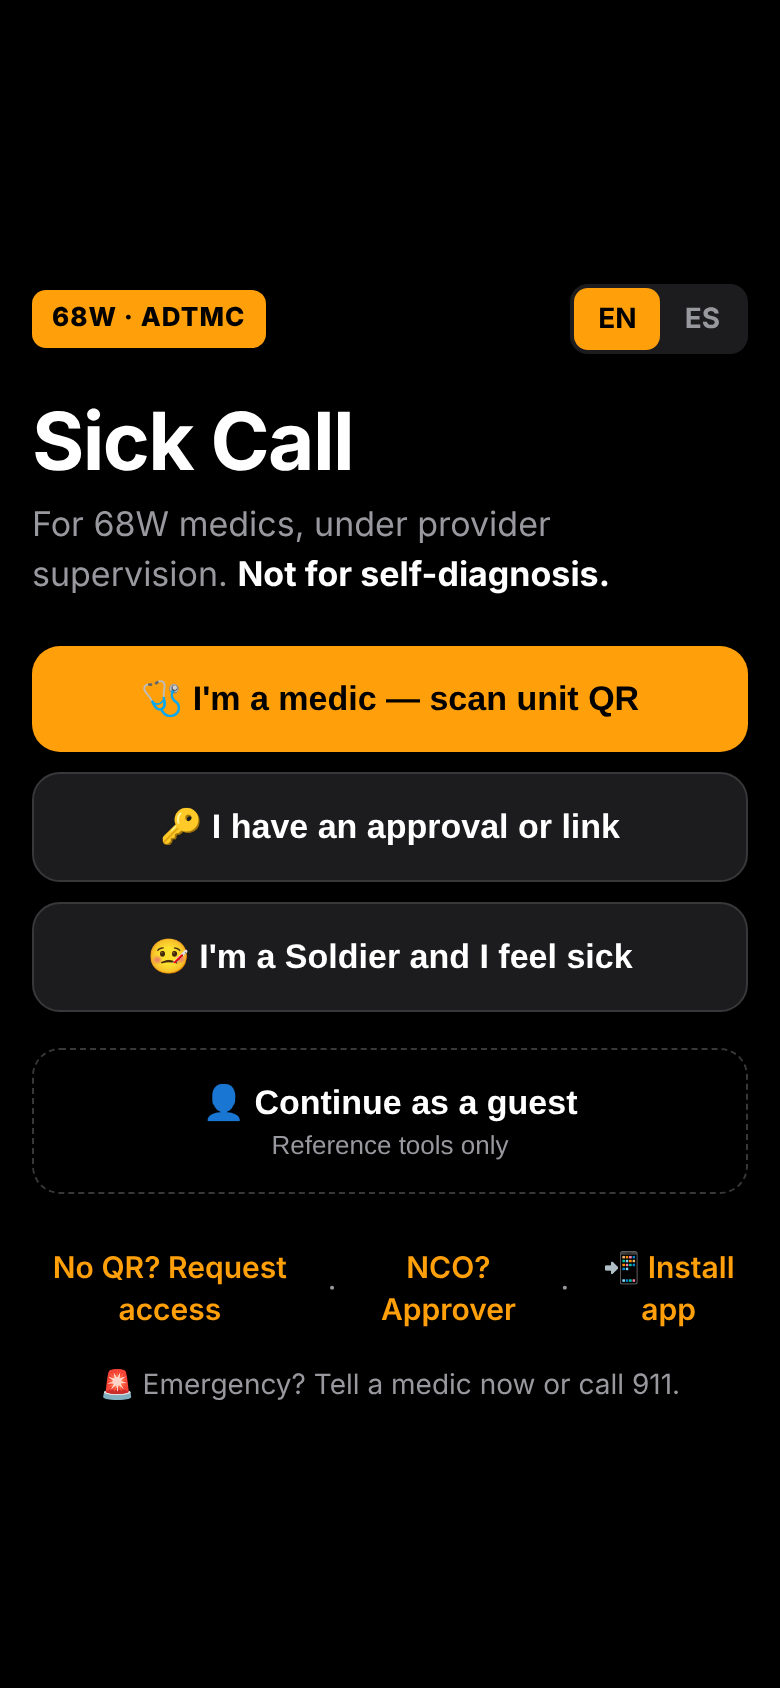
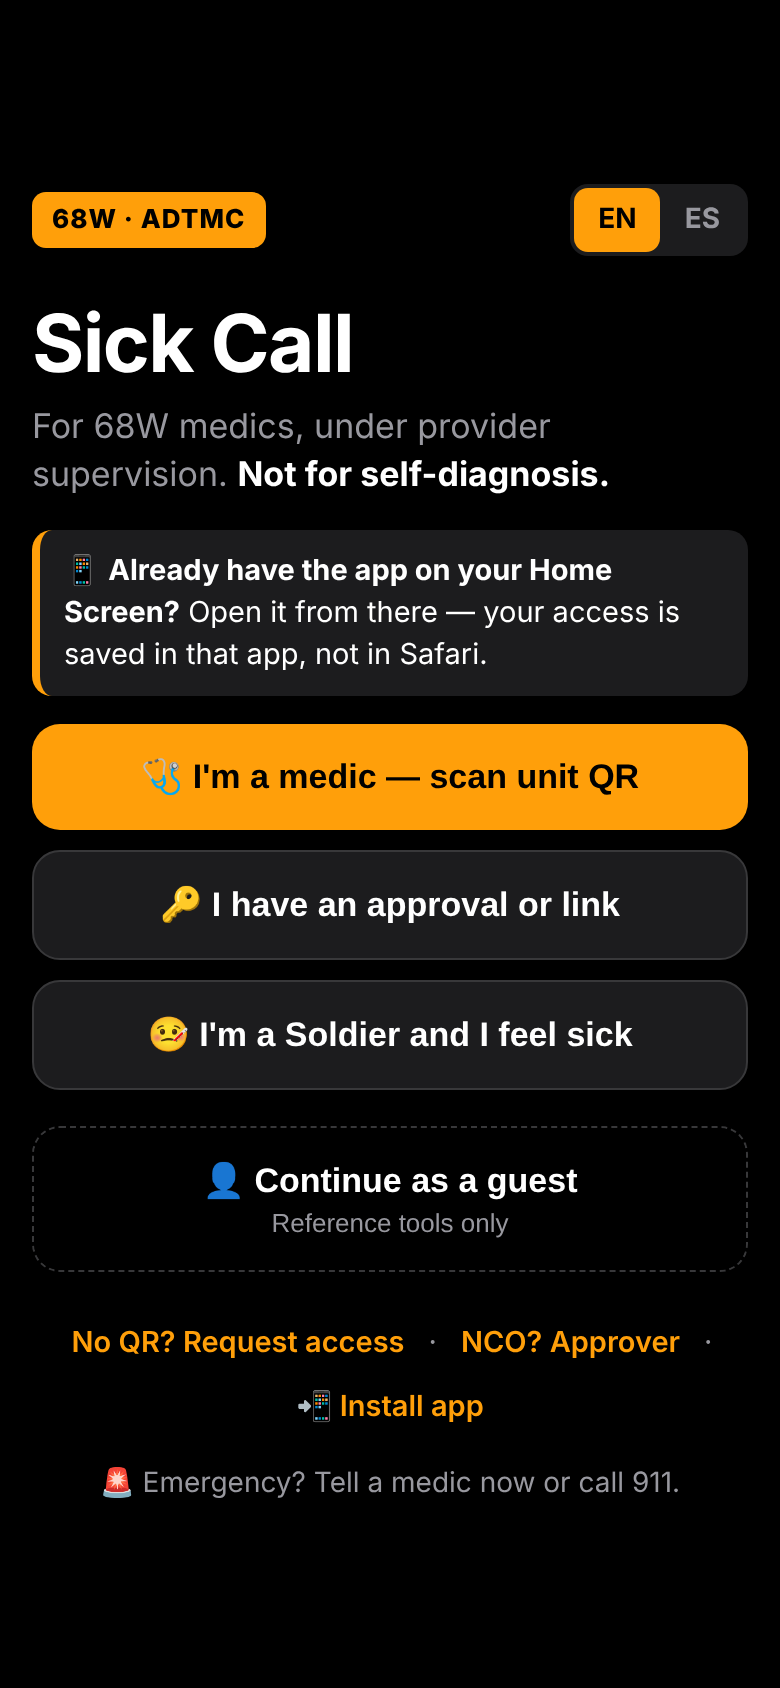
Personal access link: restore access in any browser or phone (v34)
Link personal de acceso: recuperar el acceso en cualquier navegador o teléfono (v34)

Claude-Session: https://claude.ai/code/session_015dVcNB5Wifchtix1QkjYVg

diff --git a/access.js b/access.js
@@ -33,8 +33,9 @@ const AC={
     const ap=AC.get('sc_appr');if(ap&&ap.cert&&ap.prv){const c=await AC.verifyCert(ap.cert);if(c&&c.pub===ap.pub)return{r:'appr',u:c.u,cert:ap.cert,prv:ap.prv,id:c.id};}
     if(AC.revoked(AC.dev())){AC.set('sc_auth',null);return null;}
     const a=AC.get('sc_auth');
+    if(a&&a.pid&&AC.revoked(a.pid)){AC.set('sc_auth',null);return null;}
     if(a&&a.inv){const v=await AC.verifyInvite(a.inv);if(v&&a.d===AC.dev())return{r:'medic',u:(a.reg&&a.reg.unit)||v.u,by:v._by,iat:Math.round((a.at||0)/1000),reg:a.reg||null,via:'inv'};AC.set('sc_auth',null);return null;}
-    if(a&&a.tok){const v=await AC.verifyApproval(a.tok);if(v&&v.d===AC.dev())return{r:'medic',u:v.u,by:v._by,iat:v.iat};AC.set('sc_auth',null);}
+    if(a&&a.tok){const v=await AC.verifyApproval(a.tok);if(v&&(v.d===AC.dev()||(a.pass&&a.d===AC.dev())))return{r:'medic',u:v.u,by:v._by,iat:v.iat};AC.set('sc_auth',null);}
     return null;}
 };
 let acRole=null;
@@ -105,13 +106,14 @@ function acHaveView(){
    +'<textarea id="acP" class="ac-in" rows="3" placeholder="'+L('Paste link here','Pega el link aquí')+'"></textarea>'
    +'<button class="mg-btn sec" onclick="acHandle(document.getElementById(\'acP\').value)">'+L('Activate','Activar')+'</button><div id="acMsg" class="ac-msg"></div>');
 }
-function acScan(){iqScan(t=>{if(/#(acc|areq|acert|ainv)=/.test(t)){acHandle(t);return true;}return false;});}
+function acScan(){iqScan(t=>{if(/#(acc|areq|acert|ainv|apass)=/.test(t)){acHandle(t);return true;}return false;});}
 function acMsg(t,bad){const m=document.getElementById('acMsg');if(m){m.textContent=t;m.className='ac-msg'+(bad?' bad':'');}else iqToast(t);}
 /* ---------- handle any access link/text ---------- */
 async function acHandle(text){
-  text=String(text||'').trim();const m=text.match(/#?(acc|areq|acert|aroot|ainv)=([A-Za-z0-9_.-]+)/);
+  text=String(text||'').trim();const m=text.match(/#?(acc|areq|acert|aroot|ainv|apass)=([A-Za-z0-9_.-]+)/);
   if(!m){acMsg(L('That is not a Sick Call access code.','Eso no es un código de acceso de Sick Call.'),true);return;}
   const k=m[1],v=m[2];
+  if(k==='apass'){const ok=await acPassUse(v);if(!ok)acOv('<h2>'+L('Link not valid','Link no válido')+'</h2><p>'+L('This personal link is invalid or was revoked. Scan your unit QR again.','Este link personal no es válido o fue revocado. Escanea otra vez el QR de tu unidad.')+'</p><button class="mg-btn" onclick="accGate(true)">'+L('Back','Atrás')+'</button>');return;}
   if(k==='ainv'){const iv=await AC.verifyInvite(v);
     if(!iv){acMsg(L('Invalid or revoked unit QR.','QR de unidad inválido o revocado.'),true);acOv('<h2>'+L('QR not valid','QR no válido')+'</h2><p>'+L('This unit QR is invalid or was revoked. Ask your NCO for a new one.','Este QR de unidad no es válido o fue revocado. Pídele uno nuevo a tu NCO.')+'</p><button class="mg-btn" onclick="accGate(true)">'+L('Back','Atrás')+'</button>');return;}
     if(iv.exp&&Date.now()/1000>iv.exp){acOv('<h2>'+L('QR expired','QR vencido')+'</h2><p>'+L('This unit QR expired. Ask your NCO for a new one.','Este QR de unidad ya venció. Pídele uno nuevo a tu NCO.')+'</p><button class="mg-btn" onclick="accGate(true)">'+L('Back','Atrás')+'</button>');return;}
@@ -161,12 +163,13 @@ function renderAccess(){
     if(log.length)h+='<div class="field"><div class="lab"><span class="tag">📋</span><span class="name">'+L('My approvals','Mis aprobaciones')+'</span></div>'+log.slice(0,50).map(e=>'<div class="ac-log"><b>'+acEsc(e.n||'—')+'</b> · '+acEsc(e.u)+' · '+(e.r==='appr'?L('approver','aprobador'):e.r==='inv'?L('unit QR','QR de unidad'):L('medic','médico'))+'<span>'+new Date(e.at).toLocaleDateString()+' · ID '+e.id+'</span></div>').join('')+'</div>';
   }
   if(!r)h+='<div class="algo-actions"><button onclick="accGate(true)">'+L('Request access','Pedir acceso')+'</button><button class="ghost" onclick="acReqView(\'appr\')">'+L('Become an approver','Ser aprobador')+'</button></div>';
+  if(r&&r.r==='medic')h+='<div class="algo-actions"><button onclick="acPassView()">🔗 '+L('My personal access link','Mi link personal de acceso')+'</button></div>';
   if(r&&r.r==='medic')h+='<div class="algo-actions"><button class="ghost" onclick="acReqView(\'appr\')">'+L('I\'m a medic NCO — become an approver','Soy NCO de médicos — ser aprobador')+'</button></div>';
   h+='<div class="algo-actions"><button class="ghost" onclick="acHaveView()">🔑 '+L('Paste approval / certificate / admin key','Pegar aprobación / certificado / llave admin')+'</button></div>';
-  h+='<p class="note-hint foot">'+L('Approvals are signed and only work on the phone that asked for them. To revoke someone, give the app owner the approval ID.','Las aprobaciones están firmadas y solo funcionan en el teléfono que las pidió. Para revocar a alguien, dale al dueño de la app el ID de la aprobación.')+'</p>';
+  h+='<p class="note-hint foot">'+L('Approvals are signed. To use the app in another browser or phone, use your personal access link. To revoke someone, give the app owner the approval ID.','Las aprobaciones están firmadas. Para usar la app en otro navegador o teléfono, usa tu link personal de acceso. Para revocar a alguien, dale al dueño de la app el ID de la aprobación.')+'</p>';
   return h;
 }
-function acHashCheck(){const h=location.hash||'';if(!/(acc|areq|acert|aroot|ainv)=/.test(h))return false;try{history.replaceState(null,'',location.pathname+location.search);}catch(e){}acHandle(h);return true;}
+function acHashCheck(){const h=location.hash||'';if(!/(acc|areq|acert|aroot|ainv|apass)=/.test(h))return false;try{history.replaceState(null,'',location.pathname+location.search);}catch(e){}acHandle(h);return true;}
 
 /* ---------- Unit QR (invite) — one link per unit, medic registers once ----------
    Invite (#ainv=) signed by root or approver: {t:'inv', id, u:unit, exp, n:maxPhones, iat, c:certToken|null}
@@ -194,10 +197,11 @@ function acJoinNext(tok){
   if(!reg.rank||!reg.last||!reg.first||!reg.mos||!reg.unit){acMsg(L('Please fill in every field.','Llena todos los campos.'),true);return;}
   if(reg.mos==='NONE'){acMsg(L('This app is for medical personnel.','Esta app es para personal médico.'),true);return;}
   AC.set('sc_reg',reg);
+  const pid=AC.rid();
   const name=reg.rank+' '+reg.last.toUpperCase()+', '+reg.first;
   const iv=AC.dec(String(tok).split('.')[0])||{};
-  const q=new URLSearchParams({alignLeft:'1',hideTitle:'1',transparentBackground:'1',dynamicHeight:'1',rank:reg.rank,name:name,mos:reg.mos,unit:reg.unit,poc:reg.poc,device:AC.dev(),invite:iv.id||'',by:iv.c?'approver':'admin'});
-  window._acJoin={tok,reg,name};
+  const q=new URLSearchParams({alignLeft:'1',hideTitle:'1',transparentBackground:'1',dynamicHeight:'1',rank:reg.rank,name:name,mos:reg.mos,unit:reg.unit,poc:reg.poc,device:AC.dev(),invite:iv.id||'',by:iv.c?'approver':'admin',pass:pid});
+  window._acJoin={tok,reg,name,pid};
   acOv('<button class="ac-back" onclick="acJoinView(\''+tok+'\',AC.dec(\''+String(tok).split('.')[0]+'\'))">‹ '+L('Back','Atrás')+'</button><h2>'+L('Confirm','Confirmar')+'</h2>'
    +'<div class="ac-card"><div><span>'+L('Name','Nombre')+'</span><b>'+acEsc(name)+'</b></div><div><span>MOS</span><b>'+acEsc(reg.mos)+'</b></div><div><span>'+L('Unit','Unidad')+'</span><b>'+acEsc(reg.unit)+'</b></div><div><span>POC</span><b>'+acEsc(reg.poc)+'</b></div></div>'
    +'<p class="mg-f" style="margin-top:6px">'+L('Tap “Confirm & enter” below. Needs internet.','Toca “Confirmar y entrar” abajo. Necesita internet.')+'</p>'
@@ -205,10 +209,10 @@ function acJoinNext(tok){
 }
 async function acJoinDone(){
   const j=window._acJoin;if(!j)return;window._acJoin=null;
-  AC.set('sc_auth',{inv:j.tok,d:AC.dev(),reg:Object.assign({name:j.name},j.reg),at:Date.now()});acRole=await AC.role();
+  AC.set('sc_auth',{inv:j.tok,d:AC.dev(),reg:Object.assign({name:j.name},j.reg),at:Date.now(),pid:j.pid});acRole=await AC.role();
   if(!acRole){acOv('<h2>'+L('Something went wrong','Algo salió mal')+'</h2><p>'+L('Try the QR again.','Intenta otra vez con el QR.')+'</p><button class="mg-btn" onclick="accGate(true)">OK</button>');return;}
   acGuestOff();
-  acOv('<h2>✅ '+L('You\'re in','Ya entraste')+'</h2><p>'+L('Welcome, ','Bienvenido, ')+'<b>'+acEsc(j.name)+'</b>. '+L('This phone now has medic access.','Este teléfono ya tiene acceso de médico.')+'</p><button class="mg-btn" onclick="acClose();renderNav();renderMain()">'+L('Open the app','Abrir la app')+'</button>');
+  acOv('<h2>✅ '+L('You\'re in','Ya entraste')+'</h2><p>'+L('Welcome, ','Bienvenido, ')+'<b>'+acEsc(j.name)+'</b>'+(/\.$/.test(j.name)?' ':'. ')+L('This phone now has medic access.','Este teléfono ya tiene acceso de médico.')+'</p>'+acPassBox()+'<button class="mg-btn sec" onclick="acClose();renderNav();renderMain()">'+L('Open the app','Abrir la app')+'</button>');
 }
 window.addEventListener('message',e=>{
   if(!window._acJoin)return;if(!/^https:\/\/(www\.)?tally\.so$/.test(e.origin||''))return;
@@ -244,6 +248,25 @@ async function acInvMake(){
    +'<div class="inv-f">'+L('Valid until ','Válido hasta ')+until+' · '+L('Already approved? You don\'t need this.','¿Ya tienes acceso? No necesitas esto.')+'</div></div>'
    +'<p class="mg-f">ID: '+id+' — '+L('to revoke this QR, give this ID to the app owner.','para revocar este QR, dale este ID al dueño de la app.')+'</p><button class="mg-btn sec" onclick="acClose();goRef(\'access\')">'+L('Done','Listo')+'</button>');
 }
+/* ---------- Personal access link (#apass=) — open it in any browser/phone to restore access without signing up again.
+   Link personal de acceso — ábrelo en cualquier navegador/teléfono para recuperar el acceso sin registrarte otra vez.
+   {t:'pass', id, k:'inv'|'acc', a:<signed invite or approval>, reg?} — revocable by id; the inner token is still verified. */
+function acPassLink(){const a=AC.get('sc_auth');if(!a||!(a.inv||a.tok))return null;
+  if(!a.pid){a.pid=AC.rid();AC.set('sc_auth',a);}
+  const o=a.inv?{t:'pass',id:a.pid,k:'inv',a:a.inv,reg:a.reg?{name:a.reg.name,mos:a.reg.mos,unit:a.reg.unit}:null}:{t:'pass',id:a.pid,k:'acc',a:a.tok};
+  return acLink('apass',AC.enc(o));}
+function acPassTxt(){return L('🔐 My Sick Call personal access link — open it in any browser or phone to get back in (do not share it):','🔐 Mi link personal de Sick Call — ábrelo en cualquier navegador o teléfono para volver a entrar (no lo compartas):');}
+function acPassBox(){const link=acPassLink();if(!link)return '';window._pass={link,txt:acPassTxt()};
+  return '<div class="pass-box"><b>🔗 '+L('Save your personal link','Guarda tu link personal')+'</b><p>'+L('If you open the app in another browser (like Safari) or a new phone, open this link and you are back in — no sign-up. Send it to yourself (email, notes, WhatsApp). Do not share it.','Si abres la app en otro navegador (como Safari) o en otro teléfono, abre este link y vuelves a entrar — sin registrarte. Mándatelo a ti mismo (correo, notas, WhatsApp). No lo compartas.')+'</p><div class="ac-row"><button class="mg-btn" onclick="acShare(window._pass.link,\'Sick Call\',window._pass.txt)">📤 '+L('Send to myself','Mandármelo')+'</button><button class="mg-btn sec" onclick="acCopy(window._pass.link,this)">'+L('Copy link','Copiar link')+'</button></div></div>';}
+function acPassView(){acOv('<button class="ac-back" onclick="acClose();goRef(\'access\')">‹ '+L('Back','Atrás')+'</button><h2>'+L('My personal link','Mi link personal')+'</h2>'+acPassBox()+'<button class="mg-btn sec" onclick="acClose();goRef(\'access\')">'+L('Done','Listo')+'</button>');}
+async function acPassUse(v){const p=AC.dec(v);if(!p||p.t!=='pass'||!p.id||!p.a||AC.revoked(p.id))return false;
+  const me=acRole||await AC.role();if(me){acOv('<h2>✅ '+L('Already active','Ya estás activo')+'</h2><p>'+L('This phone already has access.','Este teléfono ya tiene acceso.')+'</p><button class="mg-btn" onclick="acClose();renderMain()">'+L('Open the app','Abrir la app')+'</button>');return true;}
+  if(p.k==='inv'){const iv=await AC.verifyInvite(p.a);if(!iv)return false;AC.set('sc_auth',{inv:p.a,d:AC.dev(),reg:p.reg||null,at:Date.now(),pid:p.id,restored:1});}
+  else if(p.k==='acc'){const ap=await AC.verifyApproval(p.a);if(!ap)return false;AC.set('sc_auth',{tok:p.a,pass:1,d:AC.dev(),at:Date.now(),pid:p.id});}
+  else return false;
+  acRole=await AC.role();if(!acRole){AC.set('sc_auth',null);return false;}
+  acGuestOff();
+  acOv('<h2>✅ '+L('Welcome back','Bienvenido de nuevo')+'</h2><p>'+L('Your access is restored on this phone/browser.','Tu acceso quedó activo en este teléfono/navegador.')+'</p><button class="mg-btn" onclick="acClose();renderNav();renderMain()">'+L('Open the app','Abrir la app')+'</button>');return true;}
 /* Unit QR as an image (what you see on screen) + text + link, via the share sheet.
    QR de unidad como imagen (lo que ves en pantalla) + texto + link, con el menú de compartir. */
 function acInvCanvas(){const v=window._inv;const W=1080,P=72;const cv=document.createElement('canvas');const c=cv.getContext('2d');

diff --git a/data/whatsnew.js b/data/whatsnew.js
@@ -3,6 +3,8 @@
    Add a new entry at the TOP for every feature release (same value as APP_VER). Keep it short: 1–3 items.
    go: optional button target — a tab/view name ('admeds', 'perfiles', 'more') or 'proto:J-3'. */
 const WHATSNEW=[
+ {v:'v34',items:[
+   {i:'🔗',en:'<b>Your personal access link</b> — More → Access → "My personal access link". Save it (email, notes, WhatsApp to yourself). If you open the app in another browser or a new phone, open the link and you\'re back in — no sign-up.',es:'<b>Tu link personal de acceso</b> — Más → Acceso → "Mi link personal de acceso". Guárdalo (correo, notas o WhatsApp a ti mismo). Si abres la app en otro navegador o teléfono, abre el link y vuelves a entrar — sin registrarte.',go:'access',btn:['Get my link','Sacar mi link']}]},
  {v:'v29',items:[
    {i:'📲',en:'<b>Unit QR — easier medic access</b> — NCOs create one QR for the unit (More → Access → Create unit QR). New medics scan it, fill rank, name, MOS, unit and POC once, and they\'re in. Already-approved phones don\'t need to do anything.',es:'<b>QR de unidad — acceso más fácil</b> — los NCOs crean un QR para la unidad (Más → Acceso → Crear QR de unidad). Los médicos nuevos lo escanean, llenan rango, nombre, MOS, unidad y contacto una vez, y entran. Los teléfonos ya aprobados no tienen que hacer nada.',go:'access',btn:['Open Access','Abrir Acceso']}]},
  {v:'v28',items:[

diff --git a/app.js b/app.js
@@ -2758,7 +2758,7 @@ async function tryUnlock(){
 }
 function lockNow(){if(settings.pin){document.getElementById('lock').style.display='flex';}}
 function showLockIfNeeded(){if(settings.pin)document.getElementById('lock').style.display='flex';}
-const APP_VER='v33';
+const APP_VER='v34';
 function updateApp(b){
   if(b){b.disabled=true;b.textContent=L('Updating…','Actualizando…');}
   const go=()=>{location.href=location.pathname+'?u='+Date.now();};
@@ -3092,7 +3092,7 @@ document.body.style.fontSize=fsBase+'px';showLockIfNeeded();
 if(ad.pid&&getP(ad.pid)){const _m=protoTpl(ad.pid);cur=_m.tid;view='tpl';}else{ad.pid=null;view='adtmc';}
 iqHash();
 renderNav();renderMain();renderNote();
-window.addEventListener('hashchange',()=>{if(/iq=/.test(location.hash)){iqHash();renderNav();renderMain();}else if(/(acc|areq|acert|aroot|ainv)=/.test(location.hash))acHashCheck();});
+window.addEventListener('hashchange',()=>{if(/iq=/.test(location.hash)){iqHash();renderNav();renderMain();}else if(/(acc|areq|acert|aroot|ainv|apass)=/.test(location.hash))acHashCheck();});
 const _pi=document.getElementById('ptIn'); if(_pi)_pi.value=patient;
 setLang(LANG);
 

diff --git a/style.css b/style.css
@@ -790,3 +790,6 @@ body.guest #aside,body.guest #mobileNoteBtn,body.guest #tabbar button[data-v="ad
 #mgOv .inv-warn{font-size:14px;line-height:1.45;background:color-mix(in srgb,var(--red) 16%,transparent);border:1px solid color-mix(in srgb,var(--red) 45%,transparent);border-radius:10px;padding:8px 10px;margin-bottom:8px}
 #mgOv .mg-ios{font-size:14.5px;line-height:1.45;background:var(--panel);border-left:4px solid var(--orange);border-radius:10px;padding:10px 12px;margin:-8px 0 14px}
 #mgOv .mg-links{flex-wrap:wrap;row-gap:4px;font-size:14.5px}#mgOv .mg-links button{white-space:nowrap}
+/* Personal access link (v34) / Link personal */
+#mgOv .pass-box{background:var(--panel);border-radius:16px;padding:14px 16px;margin:14px 0 4px}
+#mgOv .pass-box b{font-size:18px}#mgOv .pass-box p{font-size:14.5px;color:var(--dim);margin:6px 0 4px;line-height:1.45}

diff --git a/sw.js b/sw.js
@@ -1,4 +1,4 @@
-const C='sickcall-v33';
+const C='sickcall-v34';
 const FILES=['./','index.html','style.css','app.js','data/protocols.js','data/meds.js','data/plans.js','data/notetags.js','data/howto.js','data/es.js','manifest.json','vendor/pdf-lib.min.js','forms/DD689.pdf','data/intake.js','intake.html','poster.html','vendor/qrcode.min.js','vendor/jsQR.min.js','access.js','data/access.js','data/medinfo.js','data/pfb.js','data/whatsnew.js','icons/icon-192.png','icons/icon-512.png','icons/apple-touch-icon.png'];
 self.addEventListener('install',e=>{e.waitUntil(caches.open(C).then(c=>c.addAll(FILES.map(f=>new Request(f,{cache:'reload'})))).then(()=>self.skipWaiting()));});
 self.addEventListener('activate',e=>{e.waitUntil(caches.keys().then(k=>Promise.all(k.filter(x=>x!==C).map(x=>caches.delete(x)))).then(()=>self.clients.claim()));});

diff --git a/CHANGELOG.md b/CHANGELOG.md
@@ -4,6 +4,8 @@ Bilingual summary of everything added or fixed, newest first. PR numbers refer t
 Resumen bilingüe de todo lo agregado o corregido, lo más nuevo primero. Los números de PR son de este repositorio.
 
 ## Unreleased / Próximo
+- **Personal access link:** approved medics get a personal link (More → Access → "My personal access link"; also shown right after unit QR sign-up). Opening it in any browser or phone restores access with no sign-up — fixes the iPhone Safari vs Home Screen split and phone changes. Each link has an ID (sent with new sign-ups to Tally) that can be revoked in `revoked.json`. Nobody loses current access.
+  **Link personal de acceso:** los médicos aprobados tienen un link personal (Más → Acceso → "Mi link personal de acceso"; también sale al terminar el registro con QR de unidad). Al abrirlo en cualquier navegador o teléfono se recupera el acceso sin registrarse — resuelve lo de Safari vs pantalla de inicio en iPhone y cambios de teléfono. Cada link tiene un ID (llega a Tally con los registros nuevos) que se puede revocar en `revoked.json`. Nadie pierde su acceso actual.
 - **iPhone Safari hint:** on the access screen in Safari (iPhone/iPad), a note says that if the app is already on the Home Screen, open it from there — access is saved in that app, not in Safari.
   **Aviso en Safari de iPhone:** en la pantalla de acceso en Safari (iPhone/iPad) sale una nota: si ya tienes la app en la pantalla de inicio, ábrela desde ahí — el acceso está guardado en esa app, no en Safari.
 - **Point of contact is optional** in the unit QR sign-up. Medics who already signed up keep their access.
